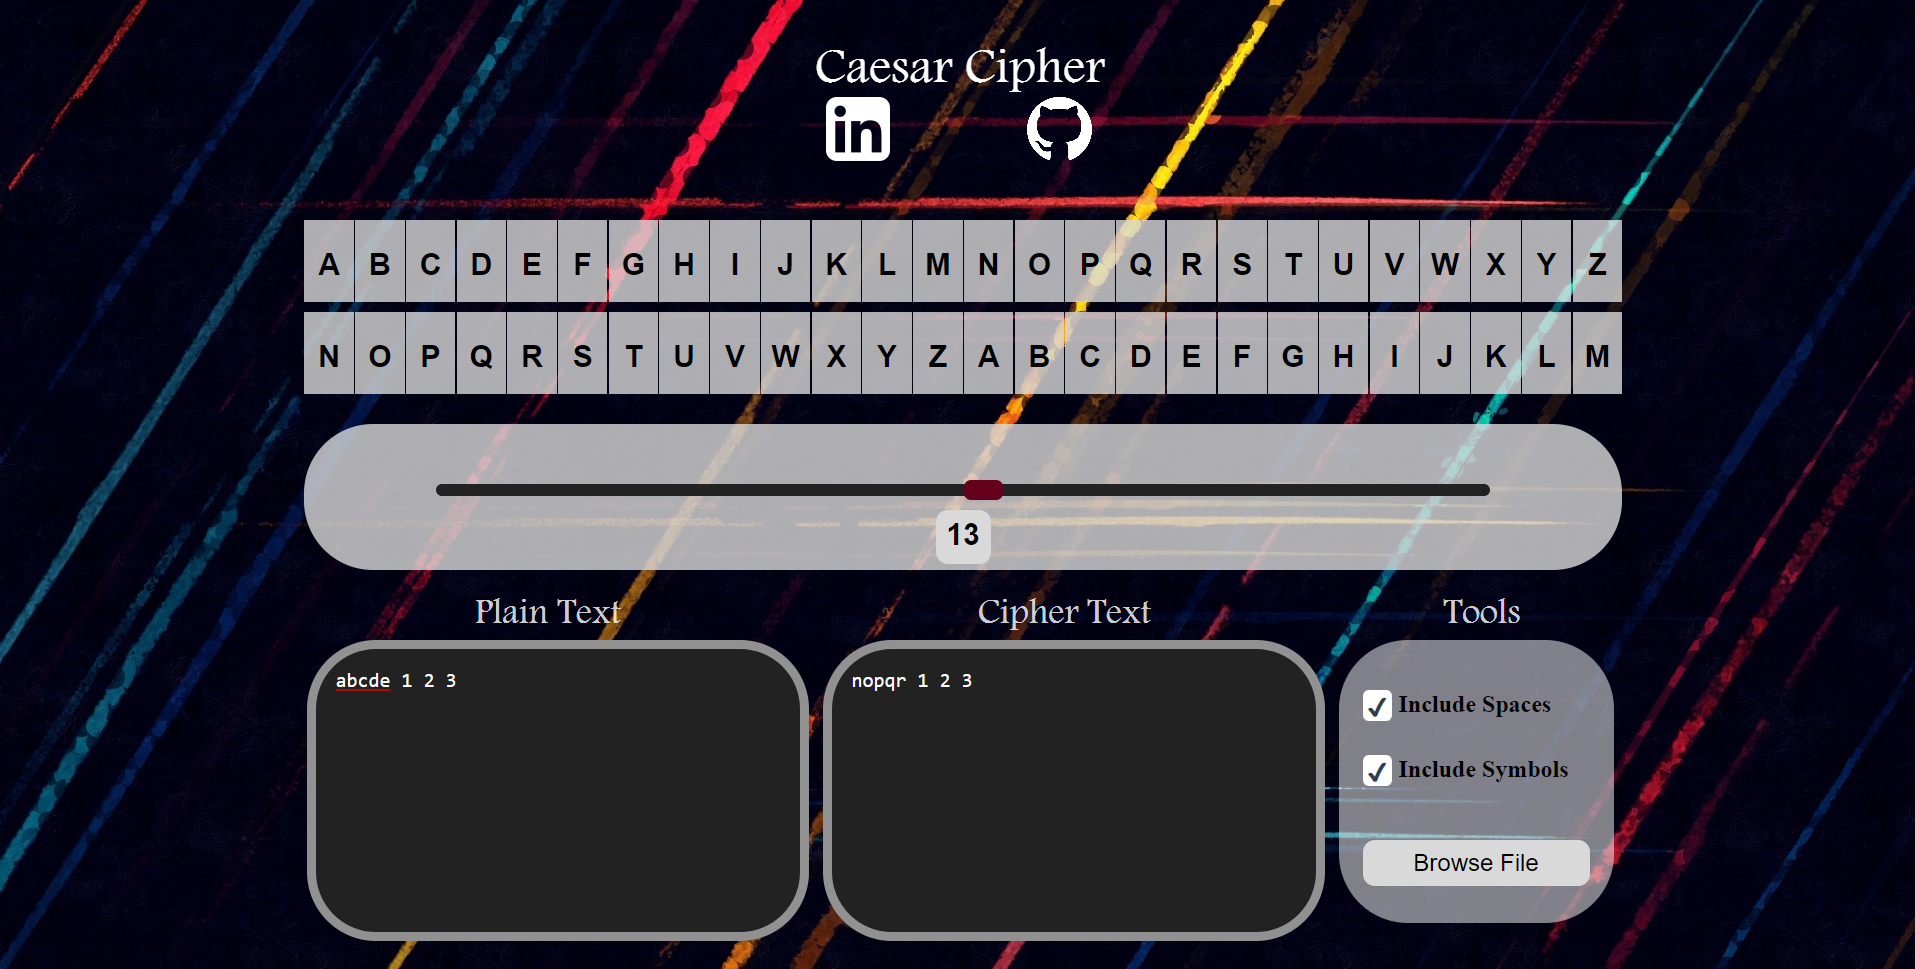
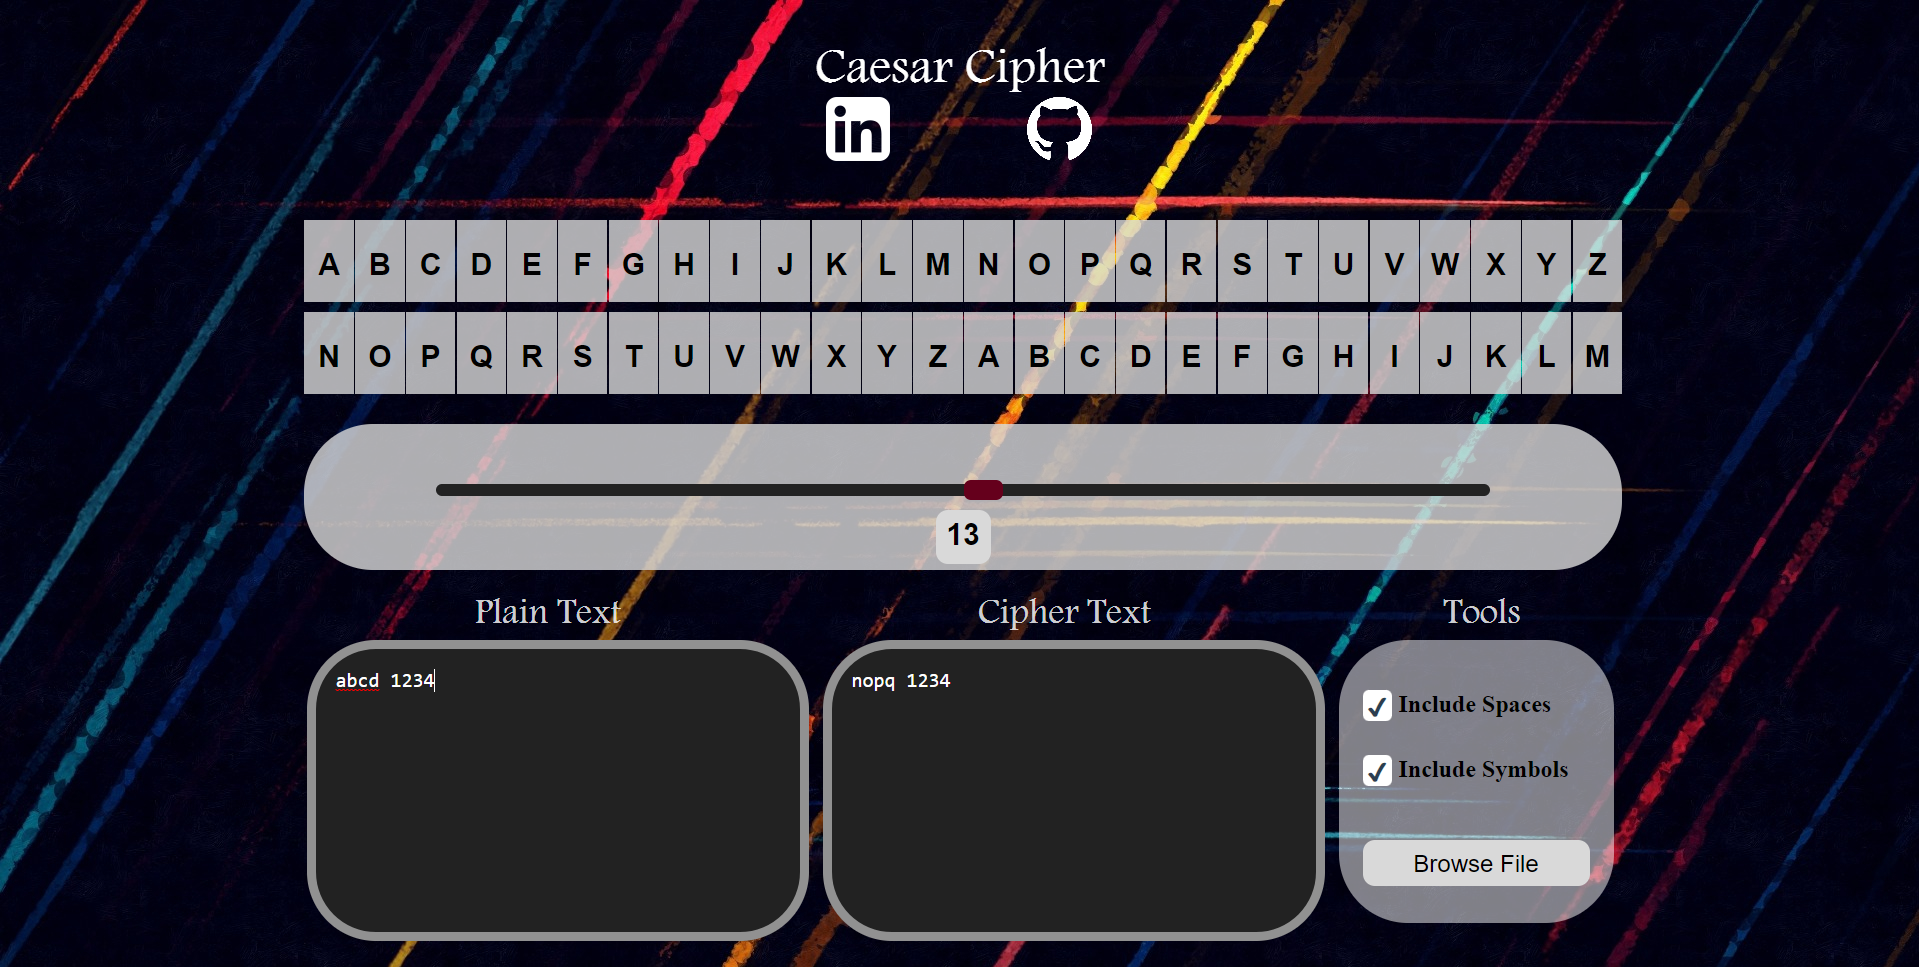
Browse file is now functioning

diff --git a/styles.css b/styles.css
@@ -793,7 +793,7 @@ body {
 
 .e8_14_Container{
 	position: relative;
-	left: 24px;
+	margin-left: 24px;
     bottom: 0px;
 	top: 50px;
 	width: 230px;
@@ -815,7 +815,7 @@ input[type="radio"] {
 	z-index: -1;
 }
 
-label {
+.cb_lb {
 	position: relative;
 	display: inline-block;
 	line-height: 1.2em;
@@ -825,8 +825,8 @@ label {
 	font-weight: bold;
 }
 
-label::before,
-label::after {
+.cb_lb::before,
+.cb_lb::after {
 	position: absolute;
 	top: 0;
 	left: 0;
@@ -835,14 +835,14 @@ label::after {
 	height: 27px;
 }
 
-label::before {
+.cb_lb::before {
 	content: " ";
 	border: 2px solid #bdc3c7;
 	border-radius: 20%;
 }
 
 /* Checkbox */
-input[type="checkbox"]+label::after {
+input[type="checkbox"]+.cb_lb::after {
 	content: "\2714";
 	color: #2c3e50;
 	line-height: 1.5;
@@ -851,22 +851,22 @@ input[type="checkbox"]+label::after {
 }
 
 /* :checked */
-input[type="checkbox"]:checked+label::before,
-input[type="radio"]:checked+label::before {
+input[type="checkbox"]:checked+.cb_lb::before,
+input[type="radio"]:checked+.cb_lb::before {
 	background: #fff;
 	border-color: #fff;
 }
 
-input[type="checkbox"]+label::after,
-input[type=radio]+label::after {
+input[type="checkbox"]+.cb_lb::after,
+input[type=radio]+.cb_lb::after {
 	-webkit-transform: scale(0);
 	-ms-transform: scale(0);
 	-o-transform: scale(0);
 	transform: scale(0);
 }
 
-input[type="checkbox"]:checked+label::after,
-input[type=radio]:checked+label::after {
+input[type="checkbox"]:checked+.cb_lb::after,
+input[type=radio]:checked+.cb_lb::after {
 	-webkit-transform: scale(1);
 	-ms-transform: scale(1);
 	-o-transform: scale(1);
@@ -874,8 +874,8 @@ input[type=radio]:checked+label::after {
 }
 
 /* Transition */
-label::before,
-label::after {
+.cb_lb::before,
+.cb_lb::after {
 	-webkit-transition: .25s all ease;
 	-o-transition: .25s all ease;
 	transition: .25s all ease;
@@ -916,18 +916,20 @@ label::after {
 	margin-top: -3.5%;
 }
 
-.e8_110 {
+input[type="file"] {
+    display: none;
+}
+.custom-file-upload {
+    cursor: pointer;
 	color: rgba(0, 0, 0, 1);
-	width: 135px;
-	height: 28px;
-	position: absolute;
-	left: 46px;
-	top: 9px;
+	position: relative;
+	top:9px;
+	padding-left:50.82px;
+	padding-right:50.82px;
+	padding-bottom:9.5px;
+	padding-top:9.5px;
 	font-family: Arial;
 	text-align: center;
 	font-size: 24px;
 	letter-spacing: 0;
 }
-/* input[type=file] {
-	display: none;
-  } */

diff --git a/index.html b/index.html
@@ -151,20 +151,16 @@
           </div>
           <div class="e8_14">
             <div class="e8_14_Container">
-              <input type="checkbox" name="cb1" id="cb1" class="chk1" onclick="spaceChange(this)" checked><label
-                for="cb1">Include Spaces</label><br><br><br>
-              <input type="checkbox" name="cb2" id="cb2" class="chk2" onclick="symbolChange(this)" checked><label
-                for="cb2">Include Symbols</label>
+              <input type="checkbox" name="cb1" id="cb1" class="chk1" onclick="spaceChange(this)" checked>
+              <label class="cb_lb" for="cb1">Include Spaces</label>
+              <br><br><br>
+              <input type="checkbox" name="cb2" id="cb2" class="chk2" onclick="symbolChange(this)" checked>
+              <label class="cb_lb" for="cb2">Include Symbols</label>
               <div class=e8_111>
-                <span class="e8_110"><span>Browse File</span>
-                  <!-- <form method="GET" action="">
-                    <label>
-                      Browse File
-                      <input type="file" id="uploadedFile" onchange="temp()"
-                        accept=".txt,.doc,.docx,application/msword,application/vnd.openxmlformats-officedocument.wordprocessingml.document">
-                    </label>
-                  </form> -->
-                </span>
+                  <label for="file-upload" class="custom-file-upload">
+                    <i class="fa fa-cloud-upload"></i> Browse File
+                  </label>
+                  <input id="file-upload" type="file" onchange="readFile(this)"/>
               </div>
             </div>
           </div>
@@ -174,5 +170,4 @@
   </div>
   </div>
 </body>
-
 </html>

diff --git a/script.js b/script.js
@@ -62,8 +62,19 @@ function plainChange(plainString) {
             cipherText += String.fromCharCode(currentCharacter);
     }
     document.getElementById("CipherText").value = cipherText;
-    console.log("hi");
 }
-// function temp() {
-//     console.log(document.getElementById('uploadedFile').value);
-// }
+
+  function readFile(file) {
+    var textFile = file.files[0];
+    if (textFile) {
+        var reader = new FileReader();
+        reader.readAsText(textFile, "UTF-8");
+        reader.onload = function (evt) {
+            document.getElementById("PlainText").value = evt.target.result;
+            document.getElementById("PlainText").oninput();
+        }
+        reader.onerror = function (evt) {
+            alert("Error");
+        }
+    }
+    }
